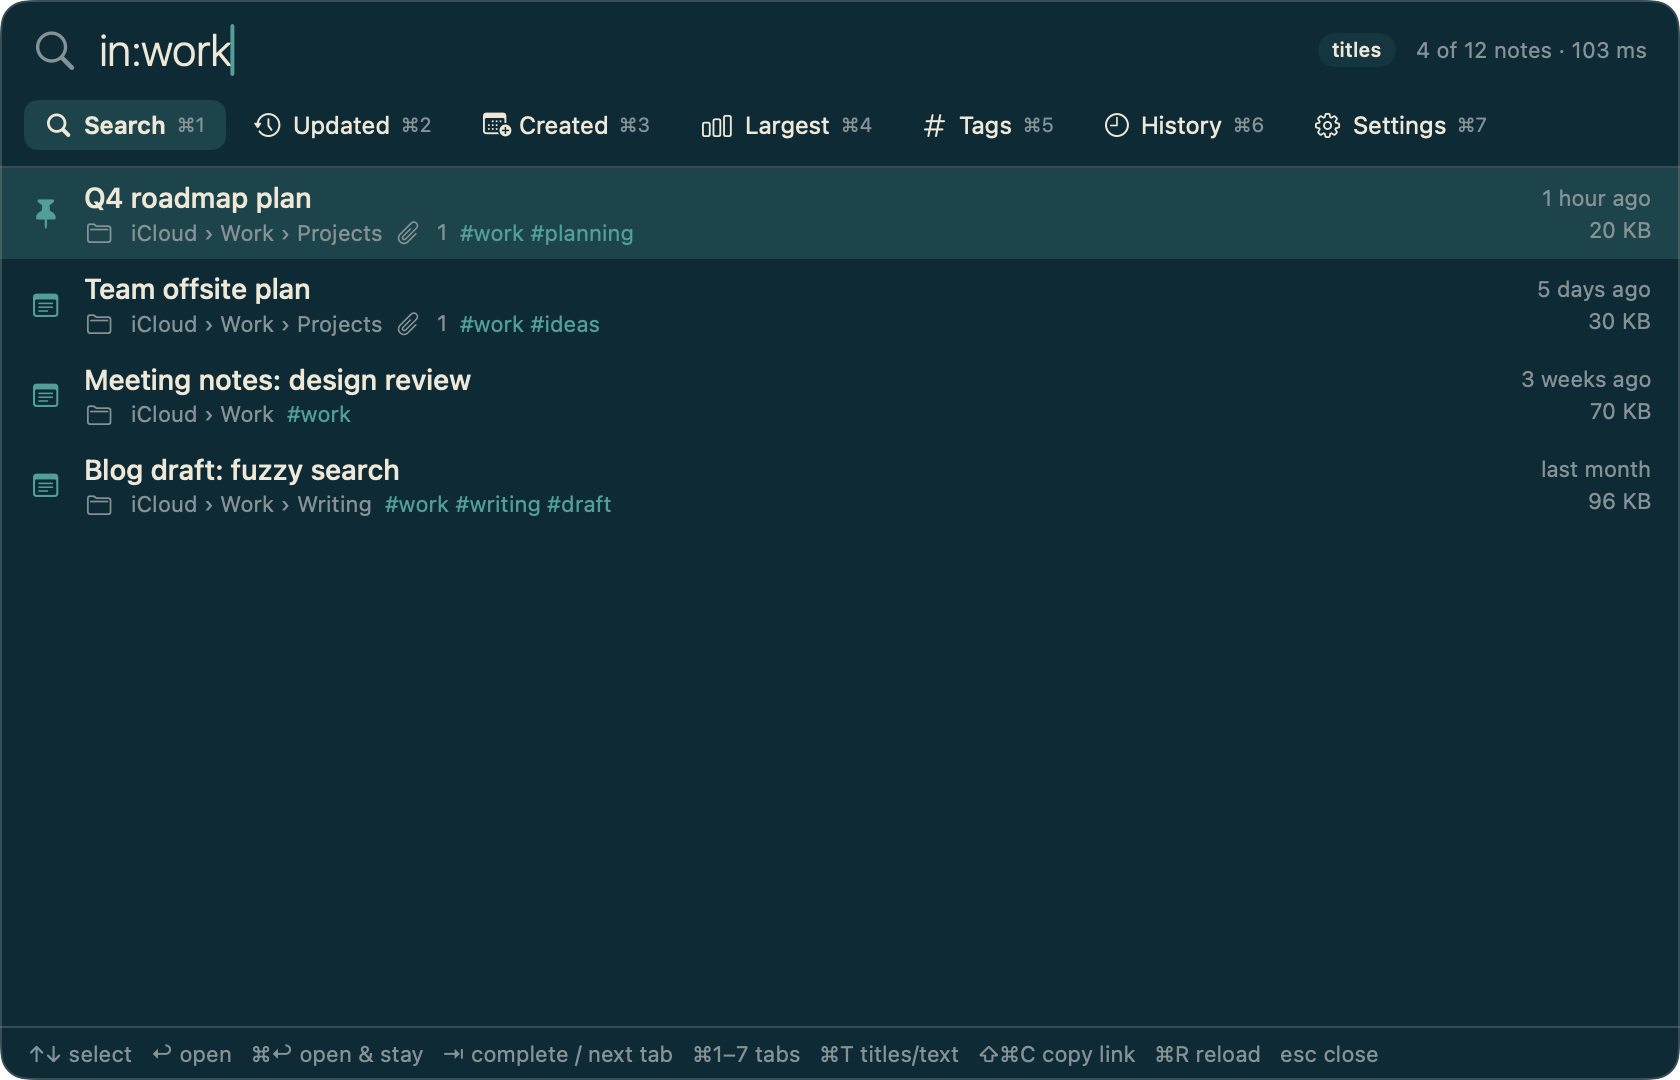
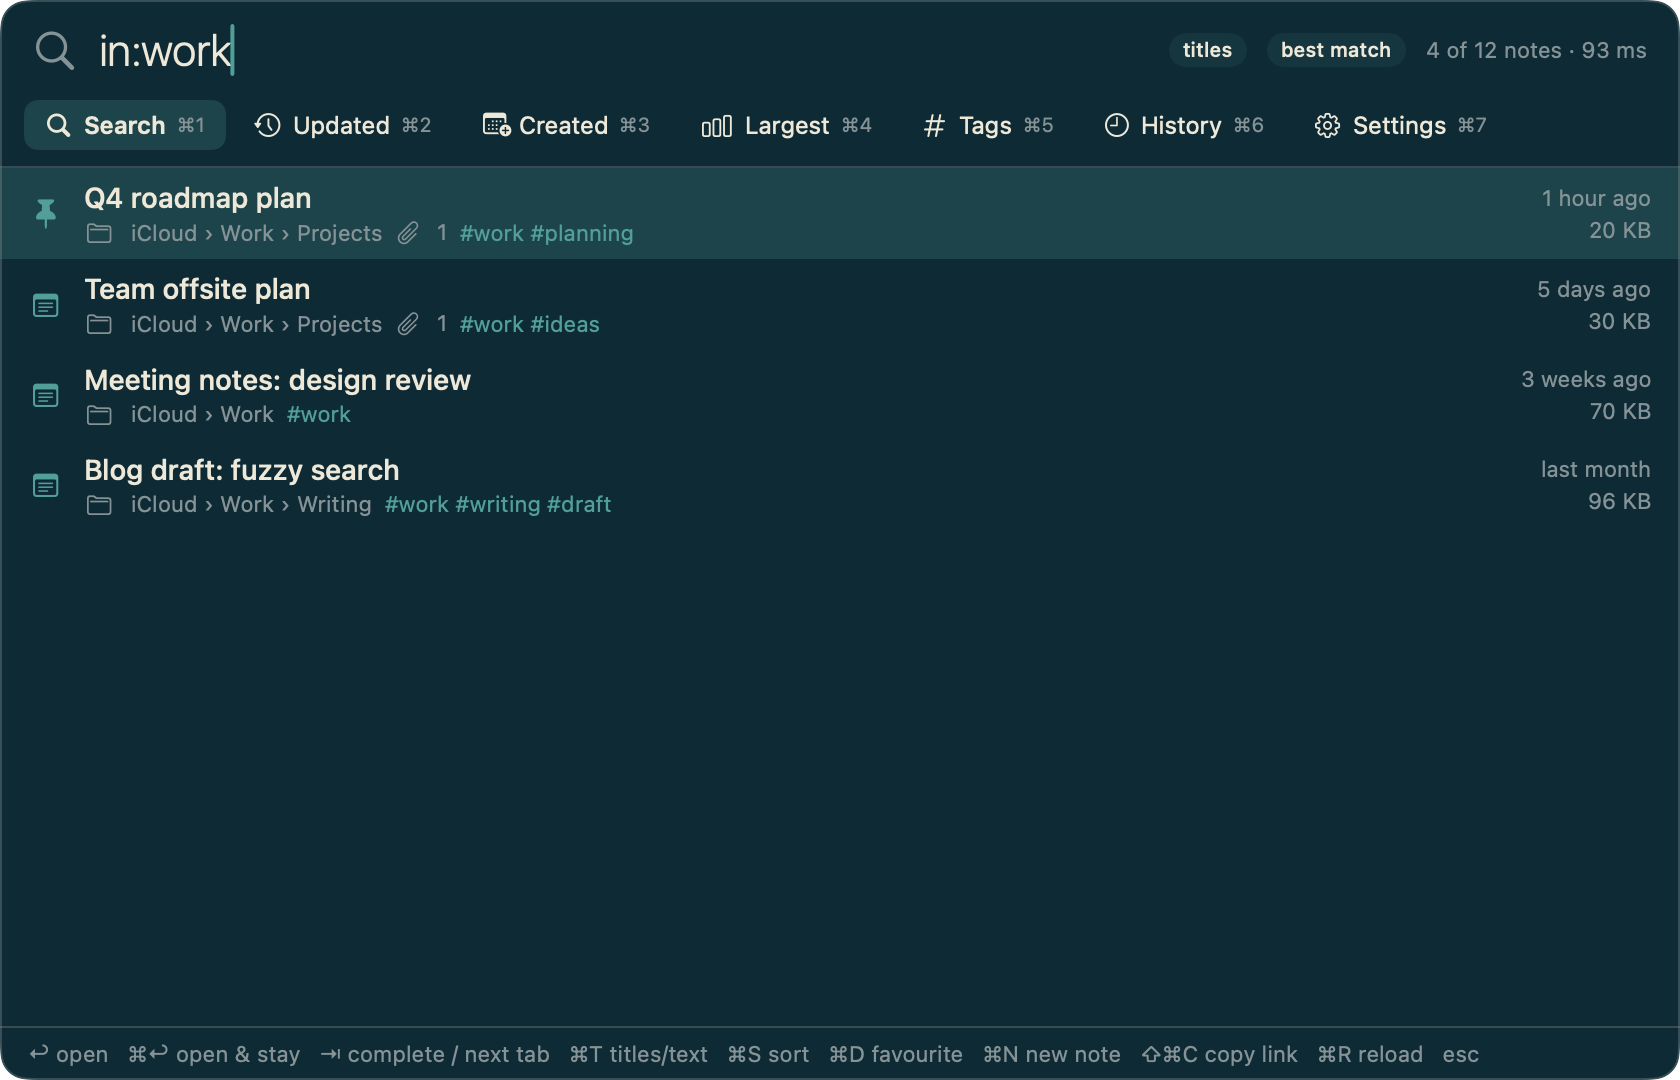
Docs for 1.4: dates, sort order, favourites, new note, matching line, update check

Changed region(s): [[0.031, 0.9472, 0.8357, 1.0], [0.7119, 0.0306, 0.9286, 0.0611]]

diff --git a/docs/search-syntax.md b/docs/search-syntax.md
@@ -15,6 +15,10 @@ ignored, so `cafe` finds "Café".
 | `is:locked` | Locked notes | |
 | `is:checklist` | Notes that contain a checklist | |
 | `is:attachment` | Notes that have at least one attachment (`has:attachment` also works) *(1.1+)* | |
+| `is:favorite` | Notes you starred with **⌘D** (`is:fav` also works) *(1.4+)* | |
+| `updated:when` | Notes last changed in that period. See [Dates](#dates-14) *(1.4+)* | `updated:7d` |
+| `created:when` | Notes created in that period *(1.4+)* | `created:2026-03` |
+| `before:when` / `after:when` | Notes last changed before / after that period *(1.4+)* | `before:2026` |
 
 Folder and account names are matched with spaces removed. For a folder called "Work Projects", type
 `in:workprojects` or just `in:work`.
@@ -34,13 +38,47 @@ Only file names are used, never what is inside the files.
 
 ![Notes with PDF attachments](images/attachments.png)
 
+## Dates *(1.4+)*
+
+`updated:`, `created:`, `before:` and `after:` take a period written in one of these ways:
+
+| You write | Period |
+| --- | --- |
+| `7d`, `2w`, `3m`, `1y` | The last 7 days, 2 weeks, 3 months, 1 year, up to now |
+| `today`, `yesterday` | That day |
+| `2026` | The whole year |
+| `2026-03` | The whole month |
+| `2026-03-15` | That day |
+
+- `updated:7d` finds notes changed in the last week; `created:2026` finds notes created during 2026.
+- `before:2026` finds notes last changed before 1 January 2026; `after:2026-03` finds notes changed after March 2026.
+- Combine them like any other term: `#work updated:1m -is:locked`, or `updated:today|updated:yesterday`.
+
+![Notes changed in the last week](images/dates.png)
+
+## Sort order *(1.4+)*
+
+The Search tab normally lists the best match first. Press **⌘S**, or click the sort label at the top right, to
+switch between **best match**, **last updated**, **newest** (most recently created) and **largest**. Your choice
+is remembered.
+
+![Results sorted by size](images/sort.png)
+
+*`plan`, sorted by largest.*
+
+## Favourites *(1.4+)*
+
+Press **⌘D** on a note to star it; press again to remove the star. Starred notes show a star, are listed first
+when the search box is empty, and are found by `is:favorite`.
+
 ## Searching inside note text *(1.3+)*
 
 By default plain words match titles, folder names, hashtags and attachment file names. To also match the text
 inside notes, turn on **Search inside note text** in Settings, press **⌘T**, or click the "titles" label at the
 top right of the popup; it changes to "titles + text".
 
-- A note found through its text is marked **in text** on its row. The text itself is not shown.
+- A note found through its text is marked **in text** on its row. The text itself is not shown, unless you turn on
+  **Show the matching line for text matches** in Settings *(1.4+)*, which adds the one line that matched.
 - Title matches still rank above text matches.
 - Text matching is exact (after ignoring case and accents). The fuzzy and typo fallbacks apply to titles only.
 - Locked notes are never read, so their text cannot be searched.
@@ -48,6 +86,10 @@ top right of the popup; it changes to "titles + text".
 ![Searching inside note text](images/text.png)
 
 *With "titles + text" on, `invoice` finds notes that mention an invoice even though their titles do not.*
+
+![The matching line shown under each result](images/snippet.png)
+
+*The same search with "Show the matching line" turned on.*
 
 ## Combining terms
 

diff --git a/docs/tabs-and-settings.md b/docs/tabs-and-settings.md
@@ -6,7 +6,7 @@ Switch tabs with **⌘1 … ⌘7**, by clicking, or with **Tab** when no autocom
 
 | Tab | Shows |
 | --- | --- |
-| **Search** (⌘1) | Everything that matches, best match first. Empty search: recently opened notes, then recently updated |
+| **Search** (⌘1) | Everything that matches, best match first (⌘S changes the order). Empty search: favourites, then recently opened notes, then recently updated |
 | **Updated** (⌘2) | The most recently updated notes |
 | **Created** (⌘3) | The most recently created notes |
 | **Largest** (⌘4) | The largest notes |
@@ -35,7 +35,8 @@ included, so a note with many images can still look small.
 
 ### Tags
 
-Every hashtag in your notes, most used first, each with its note count. Type to filter the list.
+Every hashtag in your notes, most used first, each with its note count. Type to filter the list. **⌘S** switches
+between most used first and A–Z *(1.4+)*.
 
 - **One hashtag:** highlight it and press **Return** to search for it.
 - **Several hashtags** *(1.3+)*: press **Space** (or click) to tick each one. A bar appears showing how many notes
@@ -67,9 +68,11 @@ You can stop NoteSearch remembering searches, or clear them all, in Settings.
 | **Global shortcut** | Click **Record**, then press the combination you want. It must include Control, Option or Command. Esc cancels. **Disable** turns the shortcut off | ⌃⌥N |
 | **Notes shown in Updated / Created / Largest** | How many notes those tabs list, from 5 to 500 | 50 |
 | **Search inside note text** | Also match plain words against the text of your notes. See [Privacy](privacy.md) *(1.3+)* | Off |
+| **Show the matching line for text matches** | While searching inside note text, shows the one line that matched under each result *(1.4+)* | Off |
 | **Close popup after opening a note** | Off keeps the popup open after Return | On |
 | **Hide popup when it loses focus** | Off keeps the popup visible when you click elsewhere | On |
 | **Launch at login** | Start NoteSearch when you log in | Off |
+| **Check for updates once a day** | Asks GitHub for the latest version number and shows a notice when a newer one exists. Nothing about you or your notes is sent *(1.4+)* | On |
 | **Remember searches in the History tab** | Off stops new searches being remembered *(1.3+)* | On |
 | **Search history → Clear history** | Forgets all remembered searches *(1.3+)* | |
 | **Notes missing? → Copy diagnostics** | Copies a short report of counts about your Notes library to the clipboard, to paste into a bug report. It contains no note titles, folder names or account names *(1.2+)* | |

diff --git a/README.md b/README.md
@@ -28,8 +28,10 @@ Step-by-step instructions with pictures are in [Getting started](docs/getting-st
 - **Keyboard first**: a global shortcut, arrow keys and Return. No mouse needed.
 - **Search inside note text, if you want it**: off by default; one switch (or ⌘T) turns it on *(1.3+)*.
 - **Search history** and **multi-select hashtags** with live note counts *(1.3+)*.
+- **Date filters, sort order, favourites** and a **new-note shortcut** *(1.4+)*.
 - **Private**: by default only titles and metadata are read. Note text is read only if you turn that on, is kept
-  in memory only, and is never shown or saved. NoteSearch never connects to the network.
+  in memory only, and is never saved, and is shown only if you ask for the matching line. The only network use is an optional daily
+  check for a newer version, which sends nothing about you or your notes.
 - **Nine colour themes** and a handful of useful options.
 
 ## Screenshots
@@ -40,6 +42,7 @@ Step-by-step instructions with pictures are in [Getting started](docs/getting-st
 | ![Typo-tolerant search with folder autocomplete](docs/images/typo.png) <br> A typo still finds the note; folders autocomplete too | ![Largest notes tab](docs/images/largest.png) <br> Largest notes (Dracula theme) |
 | ![Notes with PDF attachments](docs/images/attachments.png) <br> Notes with a PDF attached: `is:attachment pdf` | ![Notes in a folder and its sub-folders](docs/images/folders.png) <br> A folder and its sub-folders: `in:work` (Solarized Dark theme) |
 | ![Search inside note text](docs/images/text.png) <br> Searching inside note text, when turned on | ![Selecting several hashtags](docs/images/tags-multi.png) <br> Ticking several hashtags shows how many notes have all or any |
+| ![Notes changed in the last week](docs/images/dates.png) <br> Date filter: `updated:7d` | ![The matching line of text](docs/images/snippet.png) <br> Optional: the line of text that matched |
 | ![Search history](docs/images/history.png) <br> History of past searches | ![Tags tab](docs/images/tags.png) <br> Every hashtag with its note count (Midnight theme) |
 | ![Settings](docs/images/settings.png) <br> Settings (Notes Yellow theme) | |
 
@@ -68,6 +71,8 @@ Step-by-step instructions with pictures are in [Getting started](docs/getting-st
 | `in:travel` | Notes in a folder whose name contains "travel" |
 | `is:pinned` | Pinned notes (`is:locked`, `is:checklist` also work) |
 | `is:attachment` | Notes that have attachments *(1.1+)* |
+| `updated:7d` | Notes changed in the last 7 days *(1.4+)* |
+| `is:favorite` | Notes you starred with ⌘D *(1.4+)* |
 
 ## Help and feedback
 

diff --git a/docs/privacy.md b/docs/privacy.md
@@ -22,8 +22,9 @@ From version 1.3 there is an optional setting, **Search inside note text**, whic
 (in Settings, with **⌘T**, or by clicking the "titles" label in the popup). While it is on:
 
 - NoteSearch reads the text of your notes into memory so that searches can match it.
-- The text is **never written to disk** by NoteSearch and **never displayed**. A matching note is only marked
-  "in text".
+- The text is **never written to disk** by NoteSearch. A matching note is only marked "in text".
+- The text is **not displayed** unless you also turn on **Show the matching line for text matches** *(1.4+)*,
+  which shows the single line that matched under the result.
 - **Locked notes are never read.** They are encrypted, and NoteSearch does not ask for their password.
 - Turning the setting off again discards the text from memory.
 
@@ -31,7 +32,18 @@ From version 1.3 there is an optional setting, **Search inside note text**, whic
 
 - It never changes, creates or deletes notes. Access is read-only.
 - It never reads what is inside attachments.
-- It never connects to the network. Nothing leaves your Mac, and there is no analytics or telemetry.
+- It never sends anything about you or your notes anywhere. There is no analytics or telemetry.
+- It never creates a note unless you press **⌘N** *(1.4+)*, and then it is the Notes app that creates it, after
+  macOS has asked for your permission.
+
+## Network use
+
+Versions before 1.4 never connect to the network.
+
+From version 1.4, NoteSearch checks **once a day** whether a newer version exists. It asks GitHub's public address
+for this project's latest release and reads the version number from the reply. The request contains nothing about
+you, your Mac or your notes. To stop it, turn off **Check for updates once a day** in Settings; NoteSearch then
+makes no network connections at all.
 
 ## What it stores
 
@@ -41,6 +53,8 @@ Only its own preferences, on your Mac:
 - Identifiers of the last 30 notes you opened through NoteSearch, so they can be listed first. These are internal
   IDs, not titles or text.
 - Your last 50 searches, for the History tab *(1.3+)*. You can turn this off or clear it in Settings.
+- Identifiers of the notes you starred as favourites *(1.4+)*. Internal IDs again, not titles or text.
+- The latest version number seen by the update check, and when it last ran *(1.4+)*.
 
 No copy or index of your notes is saved. The list is rebuilt in memory each time the popup opens.
 To erase the stored preferences, see [How do I uninstall?](troubleshooting.md#how-do-i-uninstall).

diff --git a/docs/how-it-works.md b/docs/how-it-works.md
@@ -25,8 +25,8 @@ By default the text of your notes is not requested at all. For size, NoteSearch 
 bytes is this?", not for the bytes themselves.
 
 From version 1.3 you can turn on **Search inside note text** (Settings, or **⌘T**). NoteSearch then also reads the
-text of each note into memory so that plain words can match it. The text is never written to disk and never shown;
-a matching row is only marked "in text". Locked notes are encrypted and are never read. Text is decoded on all
+text of each note into memory so that plain words can match it. The text is never written to disk; a matching row
+is only marked "in text", unless you also choose to show the matching line. Locked notes are encrypted and are never read. Text is decoded on all
 processor cores and remembered until a note changes, so reopening the popup re-reads only edited notes. In our
 tests a library of about 3,000 notes loaded with its text in under a fifth of a second. macOS protects this file, which is why NoteSearch needs
 [Full Disk Access](getting-started.md#grant-full-disk-access-required-one-time).
@@ -50,7 +50,8 @@ Upper/lower case and accents are ignored, so `cafe` finds "Café".
 ## 3. Notes opens the note
 
 When you press **Return**, NoteSearch hands the note's internal ID to macOS, and the Notes app opens it.
-NoteSearch never opens, changes or deletes a note itself.
+NoteSearch never opens, changes or deletes a note itself. Pressing **⌘N** *(1.4+)* likewise asks the Notes app to
+create the new note.
 
 ## What is searched, and what is not
 

diff --git a/docs/keyboard-shortcuts.md b/docs/keyboard-shortcuts.md
@@ -19,6 +19,9 @@
 | **⌘1 … ⌘7** | Search, Updated, Created, Largest, Tags, History, Settings *(before 1.3: ⌘1 … ⌘6, without History)* |
 | **⌘,** | Settings |
 | **⌘T** | Switch between matching titles only and titles plus note text *(1.3+)* |
+| **⌘S** | Change the sort order: best match, last updated, newest, largest *(1.4+)* |
+| **⌘D** | Star or unstar the selected note as a favourite *(1.4+)* |
+| **⌘N** | Create a new note in Notes, titled with whatever you have typed. macOS asks for permission the first time *(1.4+)* |
 | **⇧⌘C** | Copy a link to the selected note. Opening the link shows that note in Notes |
 | **⌘R** | Reload notes |
 | **Esc** | Clear the search box. If it is already empty, close the popup |
@@ -34,6 +37,7 @@ The usual text shortcuts (⌘A, ⌘C, ⌘V, ⌘X, ⌘Z) work in the search box.
 | **Return** | Search for the highlighted hashtag, or for notes that have **all** the ticked hashtags |
 | **Space** | Tick or untick the highlighted hashtag *(1.3+)* |
 | **⌥Return** | Search for notes that have **any** of the ticked hashtags *(1.3+)* |
+| **⌘S** | Switch the list between most used first and A–Z *(1.4+)* |
 
 ## On the History tab *(1.3+)*
 

diff --git a/docs/troubleshooting.md b/docs/troubleshooting.md
@@ -67,6 +67,16 @@ This happened in version 1.0 when the popup had not been clicked: it floated abo
 dismissed. Click once inside the popup and press **Esc**, or quit NoteSearch from its menu-bar icon, grant Full
 Disk Access, and open it again. Version 1.1 hides the popup as soon as you click anywhere else.
 
+## ⌘N does not create a note
+
+The first time you press **⌘N**, macOS asks whether NoteSearch may control Notes. If you chose Don't Allow, open
+**System Settings → Privacy & Security → Automation**, find NoteSearch and turn on **Notes**. The popup shows
+"New note failed" when permission is missing.
+
+## How do I turn off the update check?
+
+Open Settings (**⌘7**) and turn off **Check for updates once a day**. See [Privacy](privacy.md#network-use).
+
 ## Can it search inside notes?
 
 Yes, from version 1.3, but it is off by default. Turn on **Search inside note text** in Settings or press **⌘T**.
